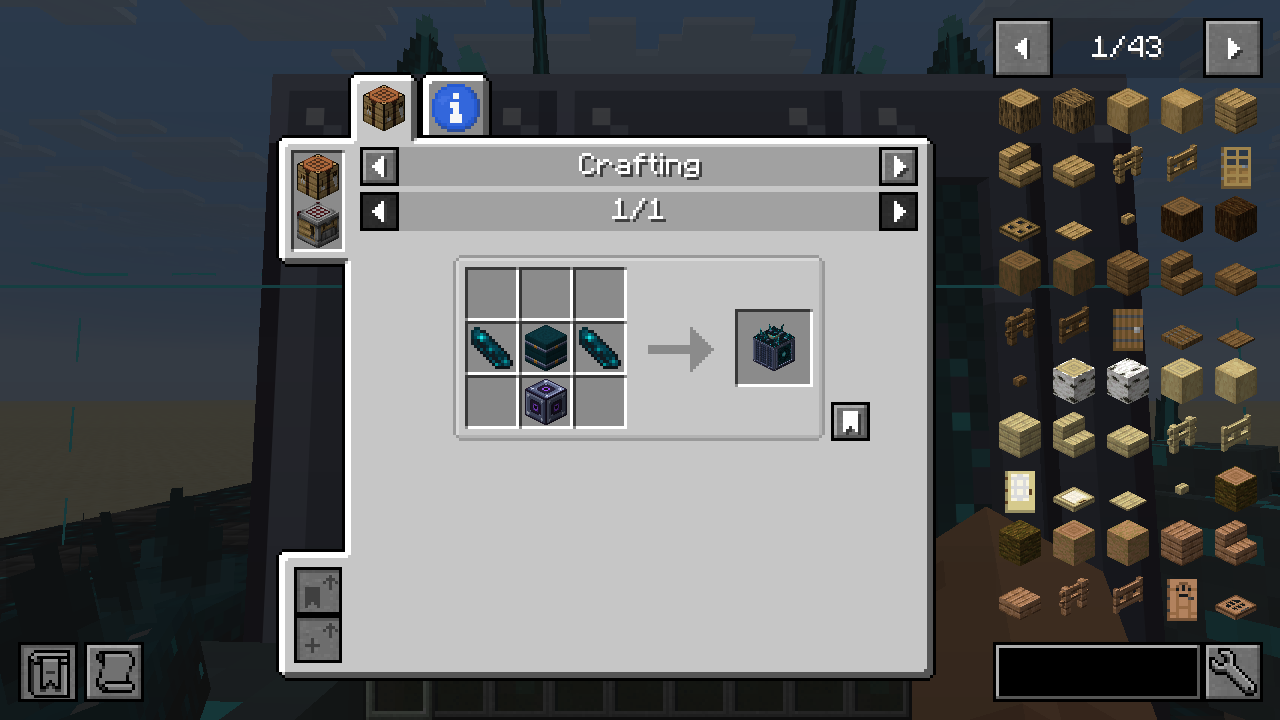
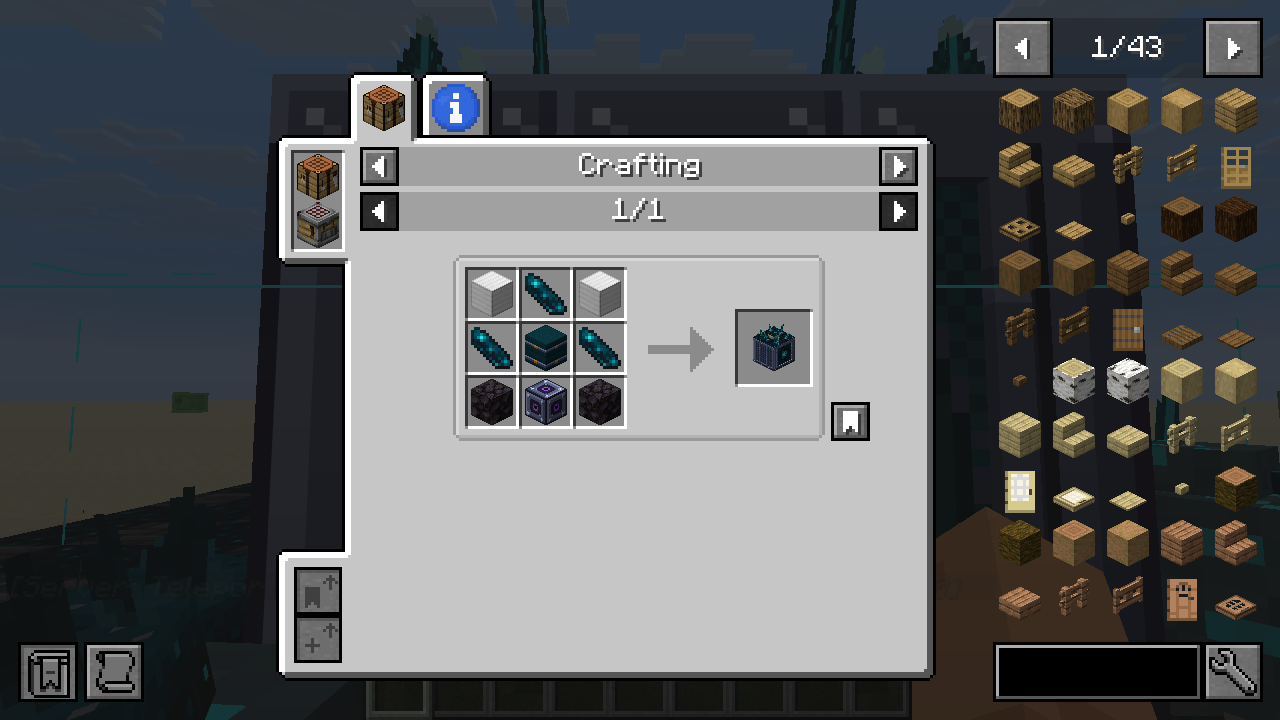
Echo Chamber: docs and test for the new recipe
Iron Block, Echo Shard, Iron Block / Echo Shard, Warden Wool Bale, Echo Shard /
Blackstone, Functional Machine Block, Blackstone. The recipe test crafts it, and the
guide chapter, reference doc, README, CurseForge page, changelog, TESTING.md and the
JEI screenshot show it.

Claude-Session: https://claude.ai/code/session_012iurxobutw9xMP3SqHHLFE

diff --git a/src/main/java/com/jax3/barelyfunctionalcontraptions/sheep/gametest/ModGameTests.java b/src/main/java/com/jax3/barelyfunctionalcontraptions/sheep/gametest/ModGameTests.java
@@ -1286,8 +1286,8 @@ public final class ModGameTests {
     }
 
     /**
-     * Two Echo Shards, a Warden Wool Bale and a Functional Machine Block make an Echo Chamber (another resource's bale
-     * won't do); breaking any block of a placed one drops one Echo Chamber, not one for each of its 27 blocks, and a
+     * Its recipe (Iron Blocks and an Echo Shard; Echo Shards round a Warden Wool Bale; Blackstone round a Functional
+     * Machine Block) makes an Echo Chamber (another resource's bale won't do); breaking any block of a placed one drops one Echo Chamber, not one for each of its 27 blocks, and a
      * player needs a pickaxe for it.
      */
     private static void echoRecipeAndDrop(GameTestHelper h) {
@@ -1295,9 +1295,10 @@ public final class ModGameTests {
         ItemStack machine = new ItemStack(ModItems.FUNCTIONAL_MACHINE_BLOCK.get());
         ItemStack warden = com.jax3.barelyfunctionalcontraptions.sheep.items.WoolBaleItem.create(ResourcefulSheep.id("warden"), 1);
         ItemStack iron = com.jax3.barelyfunctionalcontraptions.sheep.items.WoolBaleItem.create(ResourcefulSheep.id("iron"), 1);
-        ItemStack made = craft(h, 3, 2, List.of(shard, warden, shard, e, machine, e));
+        ItemStack ironBlock = new ItemStack(Items.IRON_BLOCK), blackstone = new ItemStack(Items.BLACKSTONE);
+        ItemStack made = craft(h, 3, 3, List.of(ironBlock, shard, ironBlock, shard, warden, shard, blackstone, machine, blackstone));
         h.assertTrue(made.is(ModItems.ECHO_CHAMBER.get()), "the recipe makes an Echo Chamber, got " + made);
-        h.assertTrue(craft(h, 3, 2, List.of(shard, iron, shard, e, machine, e)).isEmpty(), "an Iron Wool Bale won't do");
+        h.assertTrue(craft(h, 3, 3, List.of(ironBlock, shard, ironBlock, shard, iron, shard, blackstone, machine, blackstone)).isEmpty(), "an Iron Wool Bale won't do");
         // Placed on the platform, then broken from its top corner.
         for (BlockPos p : BlockPos.betweenClosed(new BlockPos(0, 0, 0), new BlockPos(6, 0, 6))) h.setBlock(p, Blocks.STONE);
         BlockPos front = h.absolutePos(new BlockPos(3, 1, 1));

diff --git a/docs/REFERENCE.md b/docs/REFERENCE.md
@@ -554,8 +554,9 @@ C T C      C = Copper Block, T = Fluid Tank
 A late-game generator, **3x3x3**, that turns **noise** into power. Warden sheep stand in a pen in front of its dish and listen for vibrations; keep the noise around it steady and in its sweet spot. Its casing is the machines' blue steel lined with sculk: a big resonator dish on the front whose rings pulse outward from a glowing heart, egg-crate foam walls between baffle ribs, a power port between louvred vents at the back, and a sculk roof with a catalyst dome in a crown of sculk fronds, the biggest two like the Warden sheep's ears.
 
 ```
-E W E      E = Echo Shard, W = Warden Wool Bale
-  M        M = Functional Machine Block
+I E I      I = Iron Block, E = Echo Shard
+E W E      W = Warden Wool Bale
+B M B      B = Blackstone, M = Functional Machine Block
 ```
 
 - **Placing it:** the block you place is the middle of its front, and it faces you. The rest fills the 3x3x3 space behind and above (it won't place if any of it is taken). Breaking any block of it removes the whole machine, and it drops one Echo Chamber (with a pickaxe).
@@ -569,7 +570,7 @@ E W E      E = Echo Shard, W = Warden Wool Bale
 - **Shriek:** too loud for 10 seconds and the room shrieks like a sculk shrieker: shriek rings rise off its roof, players in survival within 16 blocks of its dish get Darkness for 10 seconds, and it stops for a minute. Out of the loud end, the shriek meter drains again.
 - **Window:** right-click any block of it. Left, its energy gauge. In the panel: the herd and output, the **noise meter** (16 segments from silence to 15: amber is too quiet, green the sweet spot, red too loud, lit up to the noise level now), the steadiness bar, and two small bars under it: drowsiness (towards its sheep falling asleep) and the shriek meter (towards a shriek; after one, the cooldown draining). Bottom: a status lamp and line. Every part has a tooltip, and the button top right shows or hides its listening pen (so does sneak-right-click).
 - **Comparator:** against any block of it, reads the noise level, 0-15, for circuits that turn the noise up or down.
-- **Recipe:** two Echo Shards either side of a Warden Wool Bale, over a Functional Machine Block. It needs a pickaxe; breaking any block of it drops the one machine.
+- **Recipe:** see above: three Echo Shards, two Iron Blocks, a Warden Wool Bale, two Blackstone and a Functional Machine Block. It needs a pickaxe; breaking any block of it drops the one machine.
 - **JEI:** an *Echo Chamber* page (the Warden sheep, a note block for the noise, the sweet spot, and the power for one to four sheep with a steady noise and an erratic one) and an information page. **Jade:** its status, output, herd, noise level and steadiness, how drowsy or close to shrieking it is, and its stored energy, whichever of its blocks you look at.
 - Still to come: sculk catalysts that wear out, Echo Shard boosts and fleece fatigue.
 - **Config:** `[echo_chamber]` (see below).
@@ -583,7 +584,7 @@ E W E      E = Echo Shard, W = Warden Wool Bale
 | ![The Echo Chamber listening: three Warden sheep in its outlined pen and a note block beside it](screenshots/wip_echo_chamber_listening.png) | ![The Echo Chamber after a shriek: the sky gone dark with Darkness and shriek rings rising off its roof](screenshots/wip_echo_chamber_shriek.png) |
 | ![Its window while listening: 3 / 4 Warden sheep, 18,000 FE/t, the noise meter lit to 5 at the start of the green sweet spot, fully steady](screenshots/wip_echo_chamber_gui.png) | ![Its window after a shriek: 0 FE/t, the noise meter lit into the red, the cooldown bar full, and Shrieked: back in 57s](screenshots/wip_echo_chamber_gui_shriek.png) |
 | ![Jade on its dish: Echo Chamber, its status, herd, noise level and steadiness, and energy](screenshots/wip_echo_chamber_jade.png) | ![JEI's Echo Chamber page: Warden sheep, the chamber and a note block, the sweet spot 5-10, and the power for one to four sheep](screenshots/wip_echo_chamber_jei.png) |
-| ![JEI showing its recipe: two Echo Shards either side of a Warden Wool Bale, over a Functional Machine Block](screenshots/wip_echo_chamber_jei_recipe.png) | |
+| ![JEI showing its recipe: Iron Blocks either side of an Echo Shard, Echo Shards either side of a Warden Wool Bale, and Blackstone either side of a Functional Machine Block](screenshots/wip_echo_chamber_jei_recipe.png) | |
 
 <a id="sheep-attraction"></a>
 

diff --git a/TESTING.md b/TESTING.md
@@ -29,7 +29,7 @@ Environment for the results below: Minecraft 26.3, NeoForge 26.3.0.101, JEI 31.1
 | GameTest `echo_chamber_pushes_power_out_of_its_port` | ✅ Only the back face of its power port offers power, and it fills a Hume Energy Cube placed behind it |
 | GameTest `echo_chamber_falls_asleep_in_silence` | ✅ Silence sends its Warden sheep to sleep and it stops; noise back in the sweet spot wakes them, they settle making nothing, then it listens and makes power again |
 | GameTest `echo_chamber_shrieks_when_too_loud` | ✅ Far too loud for long enough, it shrieks and stops with its shriek meter emptied, and stays stopped through its cooldown even once it's calm |
-| GameTest `echo_chamber_recipe_and_drop` | ✅ Two Echo Shards, a Warden Wool Bale and a Functional Machine Block make an Echo Chamber (an Iron Wool Bale won't); breaking one of its blocks drops one Echo Chamber, not 27; a survival player mining it with a pickaxe gets one, and by hand none |
+| GameTest `echo_chamber_recipe_and_drop` | ✅ Its recipe (Iron Blocks, Echo Shards, a Warden Wool Bale, Blackstone and a Functional Machine Block) makes an Echo Chamber (an Iron Wool Bale won't); breaking one of its blocks drops one Echo Chamber, not 27; a survival player mining it with a pickaxe gets one, and by hand none |
 | Echo Chamber in the real client | `./gradlew runClient -PscreenshotHarness -PharnessScene=echo_chamber` | ✅ With three Warden sheep and a note block struck once a second beside it, it hears noise level 5-6 and makes about 15,000-18,000 FE/t; its window shows the herd, output, noise meter and steadiness, and its pen outline shows. Made far too loud, it shrieks: shriek rings rise off its roof, the survival player nearby gets Darkness, and its window reads *Shrieked: back in 57s*. Jade shows it from its front block (redirected to the middle one), and JEI shows its page and its recipe |
 | GameTest `ghast_sheep_screams_like_a_ghast` | ✅ A Ghast sheep's bleat becomes the ghast's scream, and its hurt and death sounds the ghast's, even when sheared; a plain sheep still bleats; the `screaming` feature on its own gives the screaming goat's sounds |
 | GameTest `ghast_sheep_is_twice_the_size` | ✅ A Ghast sheep's `minecraft:scale` becomes 2 and its hitbox doubles; shearing doesn't change it, and once the infusion is gone it's back to 1 with the modifier removed |

diff --git a/docs/CURSEFORGE.md b/docs/CURSEFORGE.md
@@ -93,7 +93,7 @@ Makes power from the difference between hot and cold: Blaze sheep in a pen again
 
 ### Echo Chamber
 
-A 3x3x3 generator that turns noise into power. Warden sheep in a pen in front of its dish listen for vibrations, the way a sculk sensor does: one makes 8,000 FE/t, up to 20,000 FE/t from four. Keep the noise steady and in its sweet spot. A note block on a redstone clock works well, and wool walls keep stray noise out. Too quiet for 30 seconds and the sheep fall asleep; too loud for 10 and the room shrieks, giving players nearby Darkness and stopping for a minute. Made from two Echo Shards, a Warden Wool Bale and a Functional Machine Block.
+A 3x3x3 generator that turns noise into power. Warden sheep in a pen in front of its dish listen for vibrations, the way a sculk sensor does: one makes 8,000 FE/t, up to 20,000 FE/t from four. Keep the noise steady and in its sweet spot. A note block on a redstone clock works well, and wool walls keep stray noise out. Too quiet for 30 seconds and the sheep fall asleep; too loud for 10 and the room shrieks, giving players nearby Darkness and stopping for a minute. Made from three Echo Shards, a Warden Wool Bale, a Functional Machine Block, two Iron Blocks and two Blackstone.
 
 ![The Echo Chamber listening: three Warden sheep in its outlined pen and a note block beside it](https://raw.githubusercontent.com/JAX3/Barely-Functional-Contraptions/main/docs/screenshots/wip_echo_chamber_listening.png)
 

diff --git a/README.md b/README.md
@@ -87,7 +87,7 @@ Makes power from the difference between hot and cold: Blaze sheep in a pen again
 
 ### Echo Chamber
 
-A 3x3x3 generator that turns noise into power. Warden sheep in a pen in front of its dish listen for vibrations, the way a sculk sensor does: one makes 8,000 FE/t, up to 20,000 FE/t from four. Keep the noise steady and in its sweet spot. A note block on a redstone clock works well, and wool walls keep stray noise out. Too quiet for 30 seconds and the sheep fall asleep; too loud for 10 and the room shrieks, giving players nearby Darkness and stopping for a minute. Made from two Echo Shards, a Warden Wool Bale and a Functional Machine Block.
+A 3x3x3 generator that turns noise into power. Warden sheep in a pen in front of its dish listen for vibrations, the way a sculk sensor does: one makes 8,000 FE/t, up to 20,000 FE/t from four. Keep the noise steady and in its sweet spot. A note block on a redstone clock works well, and wool walls keep stray noise out. Too quiet for 30 seconds and the sheep fall asleep; too loud for 10 and the room shrieks, giving players nearby Darkness and stopping for a minute. Made from three Echo Shards, a Warden Wool Bale, a Functional Machine Block, two Iron Blocks and two Blackstone.
 
 ![The Echo Chamber listening: three Warden sheep in its outlined pen and a note block beside it](docs/screenshots/wip_echo_chamber_listening.png)
 

diff --git a/CHANGELOG.md b/CHANGELOG.md
@@ -29,7 +29,8 @@ and 26.1 on NeoForge. Numbers are the defaults; almost all of them can be change
   drowsiness and shriek bars.
 - **Model:** blue-steel casing lined with sculk, a big resonator dish that pulses, foam walls, louvred vents, and
   a crown of sculk fronds on its roof like the Warden sheep's ears.
-- **Recipe:** two Echo Shards either side of a Warden Wool Bale, over a Functional Machine Block.
+- **Recipe:** Iron Block, Echo Shard and Iron Block on top; Echo Shards either side of a Warden Wool Bale in the
+  middle; Blackstone, a Functional Machine Block and Blackstone on the bottom.
 - **JEI:** an *Echo Chamber* page and an information page. **Jade:** status, output, herd, noise, steadiness and
   energy, from any of its blocks.
 - New recipe ingredient `barelyfunctionalcontraptions:wool_bale` for data packs, like `resource_wool`.
